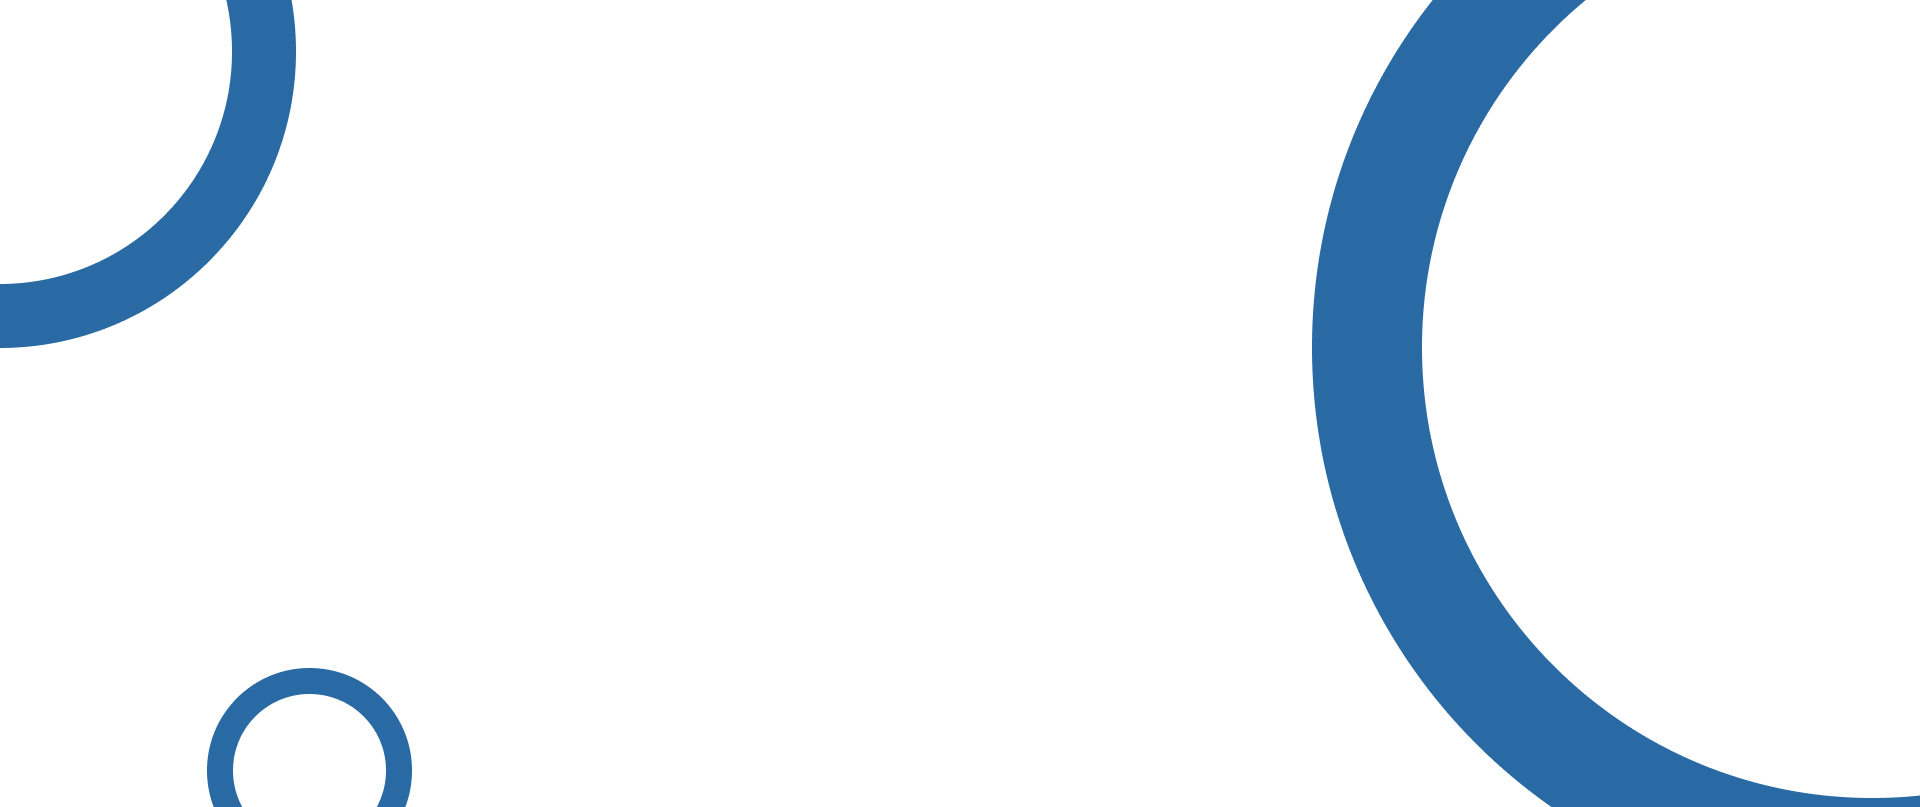
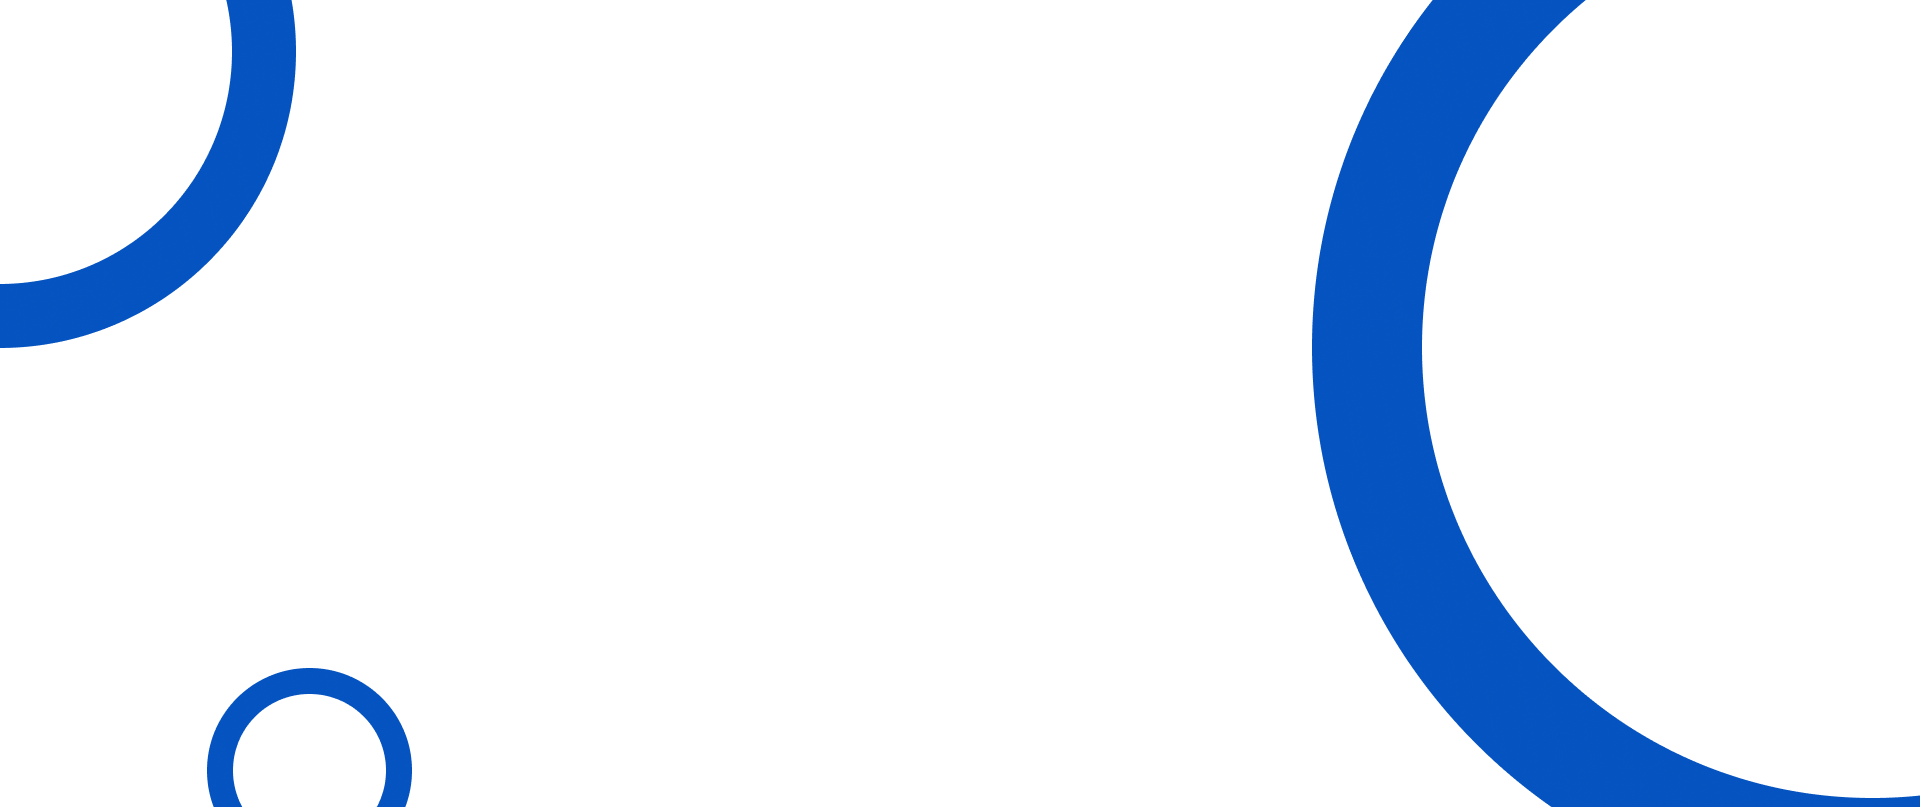
fix:style: ajuste de cores

Changed region(s): [[0.6562, 0.0, 1.0, 1.0], [0.0, 0.0, 0.1562, 0.4337], [0.0938, 0.8055, 0.2188, 1.0]]

diff --git a/src/app/Cells/cardSuporte/CardSuporte.tsx b/src/app/Cells/cardSuporte/CardSuporte.tsx
@@ -27,7 +27,7 @@ const CardSuporte = () => {
             {cards.map((card, index) => (
                 <article
                     key={index}
-                    className={`w-1/3 relative py-5 px-9 bg-blue-900 xl:h-96 h-54  w-full xl:my-0 my-0.5 hover:w-full transition-all ease-in-out duration-300 text-center justify-center items-center flex mx-1 ${card.isOpen ? "xl:w-full" : "xl:w-1/3"}
+                    className={`w-1/3 relative py-5 px-9 bg-sc-700 xl:h-96 h-54  w-full xl:my-0 my-0.5 hover:w-full transition-all ease-in-out duration-300 text-center justify-center items-center flex mx-1 ${card.isOpen ? "xl:w-full" : "xl:w-1/3"}
                         }`}
                     onMouseOver={() => setIsOpen(index, true)}
                     onMouseOut={() => setIsOpen(index, false)}
@@ -36,7 +36,7 @@ const CardSuporte = () => {
                         <div className={`${card.isOpen ? "hidden opacity-0" : "block opacity-100 ease-in-out transition-all duration-500"} text-white  text-5xl`}>
                             {card.icon}
                         </div>
-                        <h1 className={`${card.isOpen ? "hidden opacity-0" : "block opacity-100 ease-in-out transition-all duration-500"} text-3xl font-bold text-white `}>	{card.title}</h1>
+                        <h1 className={`${card.isOpen ? "hidden opacity-0" : "block opacity-100 ease-in-out transition-all duration-500"} text-2xl xl:text-3xl font-bold text-white `}>	{card.title}</h1>
                     </div>
                     <p className={`${card.isOpen ? "block opacity-100 ease-in-out transition-all duration-500" : "hidden opacity-0" } text-white  font-medium`}>{card.descricao}</p>
                 </article>

diff --git a/src/app/Cells/ServiceCard/ServiceCard.tsx b/src/app/Cells/ServiceCard/ServiceCard.tsx
@@ -5,11 +5,11 @@ const ServiceCard = () => {
             {services.map((service, index) => (
                 <article className="hover:text-white border-t-4 bg-white
                 justify-around place-items-start
-                 hover:border-teal-300 border-cyan-800 hover:bg-cyan-800
-                  text-cyan-800 transition-all duration-300 hover:rounded-br-3xl box-content flex flex-col w-56 h-80 px-10 py-3 space-y-3  shadow-md " key={index}>
+                 hover:border-sc-400 border-sc-700 hover:bg-sc-700
+                  text-black transition-all duration-300 hover:rounded-br-3xl box-content flex flex-col w-56 h-80 px-10 py-3 space-y-3  shadow-md " key={index}>
                     <h2 className="text-md font-semibold  text-center">{service.titulo}</h2>
                     <p className="text-sm font-light">{service.descricao}</p>
-                    <button className="bg-white shadow-ld border-2 border-cyan-800 shadow-black w-fit p-2 rounded-md hover:shadow-teal-300 text-sm font-semibold text-cyan-800 hover:text-cyan-400 transition-all duration-300 ">Saiba mais</button>
+                    <button className="bg-white shadow-ld border-2 border-sc-700 shadow-black w-fit p-2 rounded-md hover:shadow-sc-300 text-sm font-semibold text-sc-700  transition-all duration-300 hover:bg-gradient-to-r hover:from-sc-100 hover:to-white">Saiba mais</button>
                 </article>
 
             ))}

diff --git a/src/app/Organisms/Header/Header.tsx b/src/app/Organisms/Header/Header.tsx
@@ -11,15 +11,15 @@ const Header = () => {
         <header className="absolute fixed w-full bg-white bg-opacity-55 items-center z-99" >
             <div id="header" className="flex bg-transparent justify-between lg:justify-around w-full items-center mx-auto">
                 <Image src="/logo1.png" width={200} height={80} alt="logo" />
-                <button onBlur={() => setIsOpen(false)} onClick={() => setIsOpen(!isOpen)} className="lg:hidden text-cyan-900 flex items-center"><MenuIcon /></button>
+                <button onBlur={() => setIsOpen(false)} onClick={() => setIsOpen(!isOpen)} className="lg:hidden text-sc-700 flex items-center"><MenuIcon /></button>
                 <NavMobile isOpen={isOpen} />
                 <NavList />
                 <div className=" flex-col items-center hidden lg:flex">
                     <div className="flex items-center">
-                        <PhoneIcon className="text-cyan-900" />
-                        <h2 className="text-cyan-900">(21) 99999-9999</h2>
+                        <PhoneIcon className="text-sc-700" />
+                        <h2 className="text-sc-700">(21) 99999-9999</h2>
                     </div>
-                    <sub className="text-cyan-900">24/7</sub>
+                    <sub className="text-sc-700">24/7</sub>
                 </div>
             </div>
         </header>

diff --git a/src/app/page.tsx b/src/app/page.tsx
@@ -13,19 +13,17 @@ export default function Home() {
       <Banner>
         <main className="w-full h-full flex items-center justify-between my-32">
           <article className="max-w-xl m-auto">
-            <h1 className="text-5xl font-bold text-cyan-800 my-3">Soluções em TI com o melhor custo benefício</h1>
-            <p className="text-xl font-light text-cyan-800 leading-6">Se você busca por agilidade no atendimento e a melhor prestação de serviço em TI do mercado chegou ao lugar certo. Nós da Single Core temos o que busca com o melhor valor!</p>
+            <h1 className="text-5xl font-bold text-sc-700 my-3">Soluções em TI com o melhor custo benefício</h1>
+            <p className="text-xl font-light text-sc-700 leading-6">Se você busca por agilidade no atendimento e a melhor prestação de serviço em TI do mercado chegou ao lugar certo. Nós da Single Core temos o que busca com o melhor valor!</p>
           </article>
           <article>
             <Image src="/image.png" className="hidden lg:block" width={600} height={150} alt="logo" />
           </article>
         </main>
       </Banner>
-
       <div className="flex w-full flex-col box-content">
         <Heading text="Suporte Profissional" align="text-center" />
         <CardSuporte />
-
       </div>
       <ServiceSection />
 

diff --git a/src/app/Atoms/NavLink/Navlink.tsx b/src/app/Atoms/NavLink/Navlink.tsx
@@ -11,7 +11,7 @@ import Link from "next/link";
  */
 const NavLink = ({ children, href, external }: { children: string, href: string, external?: boolean }) => {
     return (
-        <Link className="font-light text-cyan-900 uppercase text-sm hover:text-blue-400 hover:border-b-2 hover:border-blue-900 transition-all duration-200 transform" href={href} target={external ? "_blank" : "_self"}>
+        <Link className="font-light text-sc-800 uppercase text-sm hover:text-sc-400 hover:border-b-2 hover:border-sc-800 transition-all duration-200 transform" href={href} target={external ? "_blank" : "_self"}>
             {children}
         </Link>
     )

diff --git a/tailwind.config.ts b/tailwind.config.ts
@@ -8,10 +8,19 @@ const config: Config = {
     "./node_modules/flowbite/**/*.js"
   ],
   theme: {
-    extend: {
-      colors: {
-        background: "var(--background)",
-        foreground: "var(--foreground)",
+    colors: {
+      transparent: 'transparent',
+      current: 'currentColor',
+      'white': '#ffffff',
+      'sc': {
+        100: '#68bef7',
+        200: '#5baae8',
+        300: '#1f9ff1',
+        400: '#0474f2',
+        500: '#045dbd',
+        600: '#085eb1',
+        700: '#0553c0',
+        800: '#0E2E5A',
       },
     },
   },

diff --git a/src/app/Atoms/heading/Heading.tsx b/src/app/Atoms/heading/Heading.tsx
@@ -2,7 +2,7 @@
 const Heading = ({ text, textSub, align }: { text: string, textSub?: string, align?: string }) => {
     return (
         <div className="flex flex-col my-5 space-y-4 items-center justify-center ">
-            <sub className={`text-cyan-900 font-semibold text-lg ${align}`}>{textSub}</sub>
+            <sub className={`text-sc-700 font-semibold text-lg ${align}`}>{textSub}</sub>
             <h2 className={`text-xl font-bold max-w-sm ${align}`}>{text}</h2>
         </div>
 
